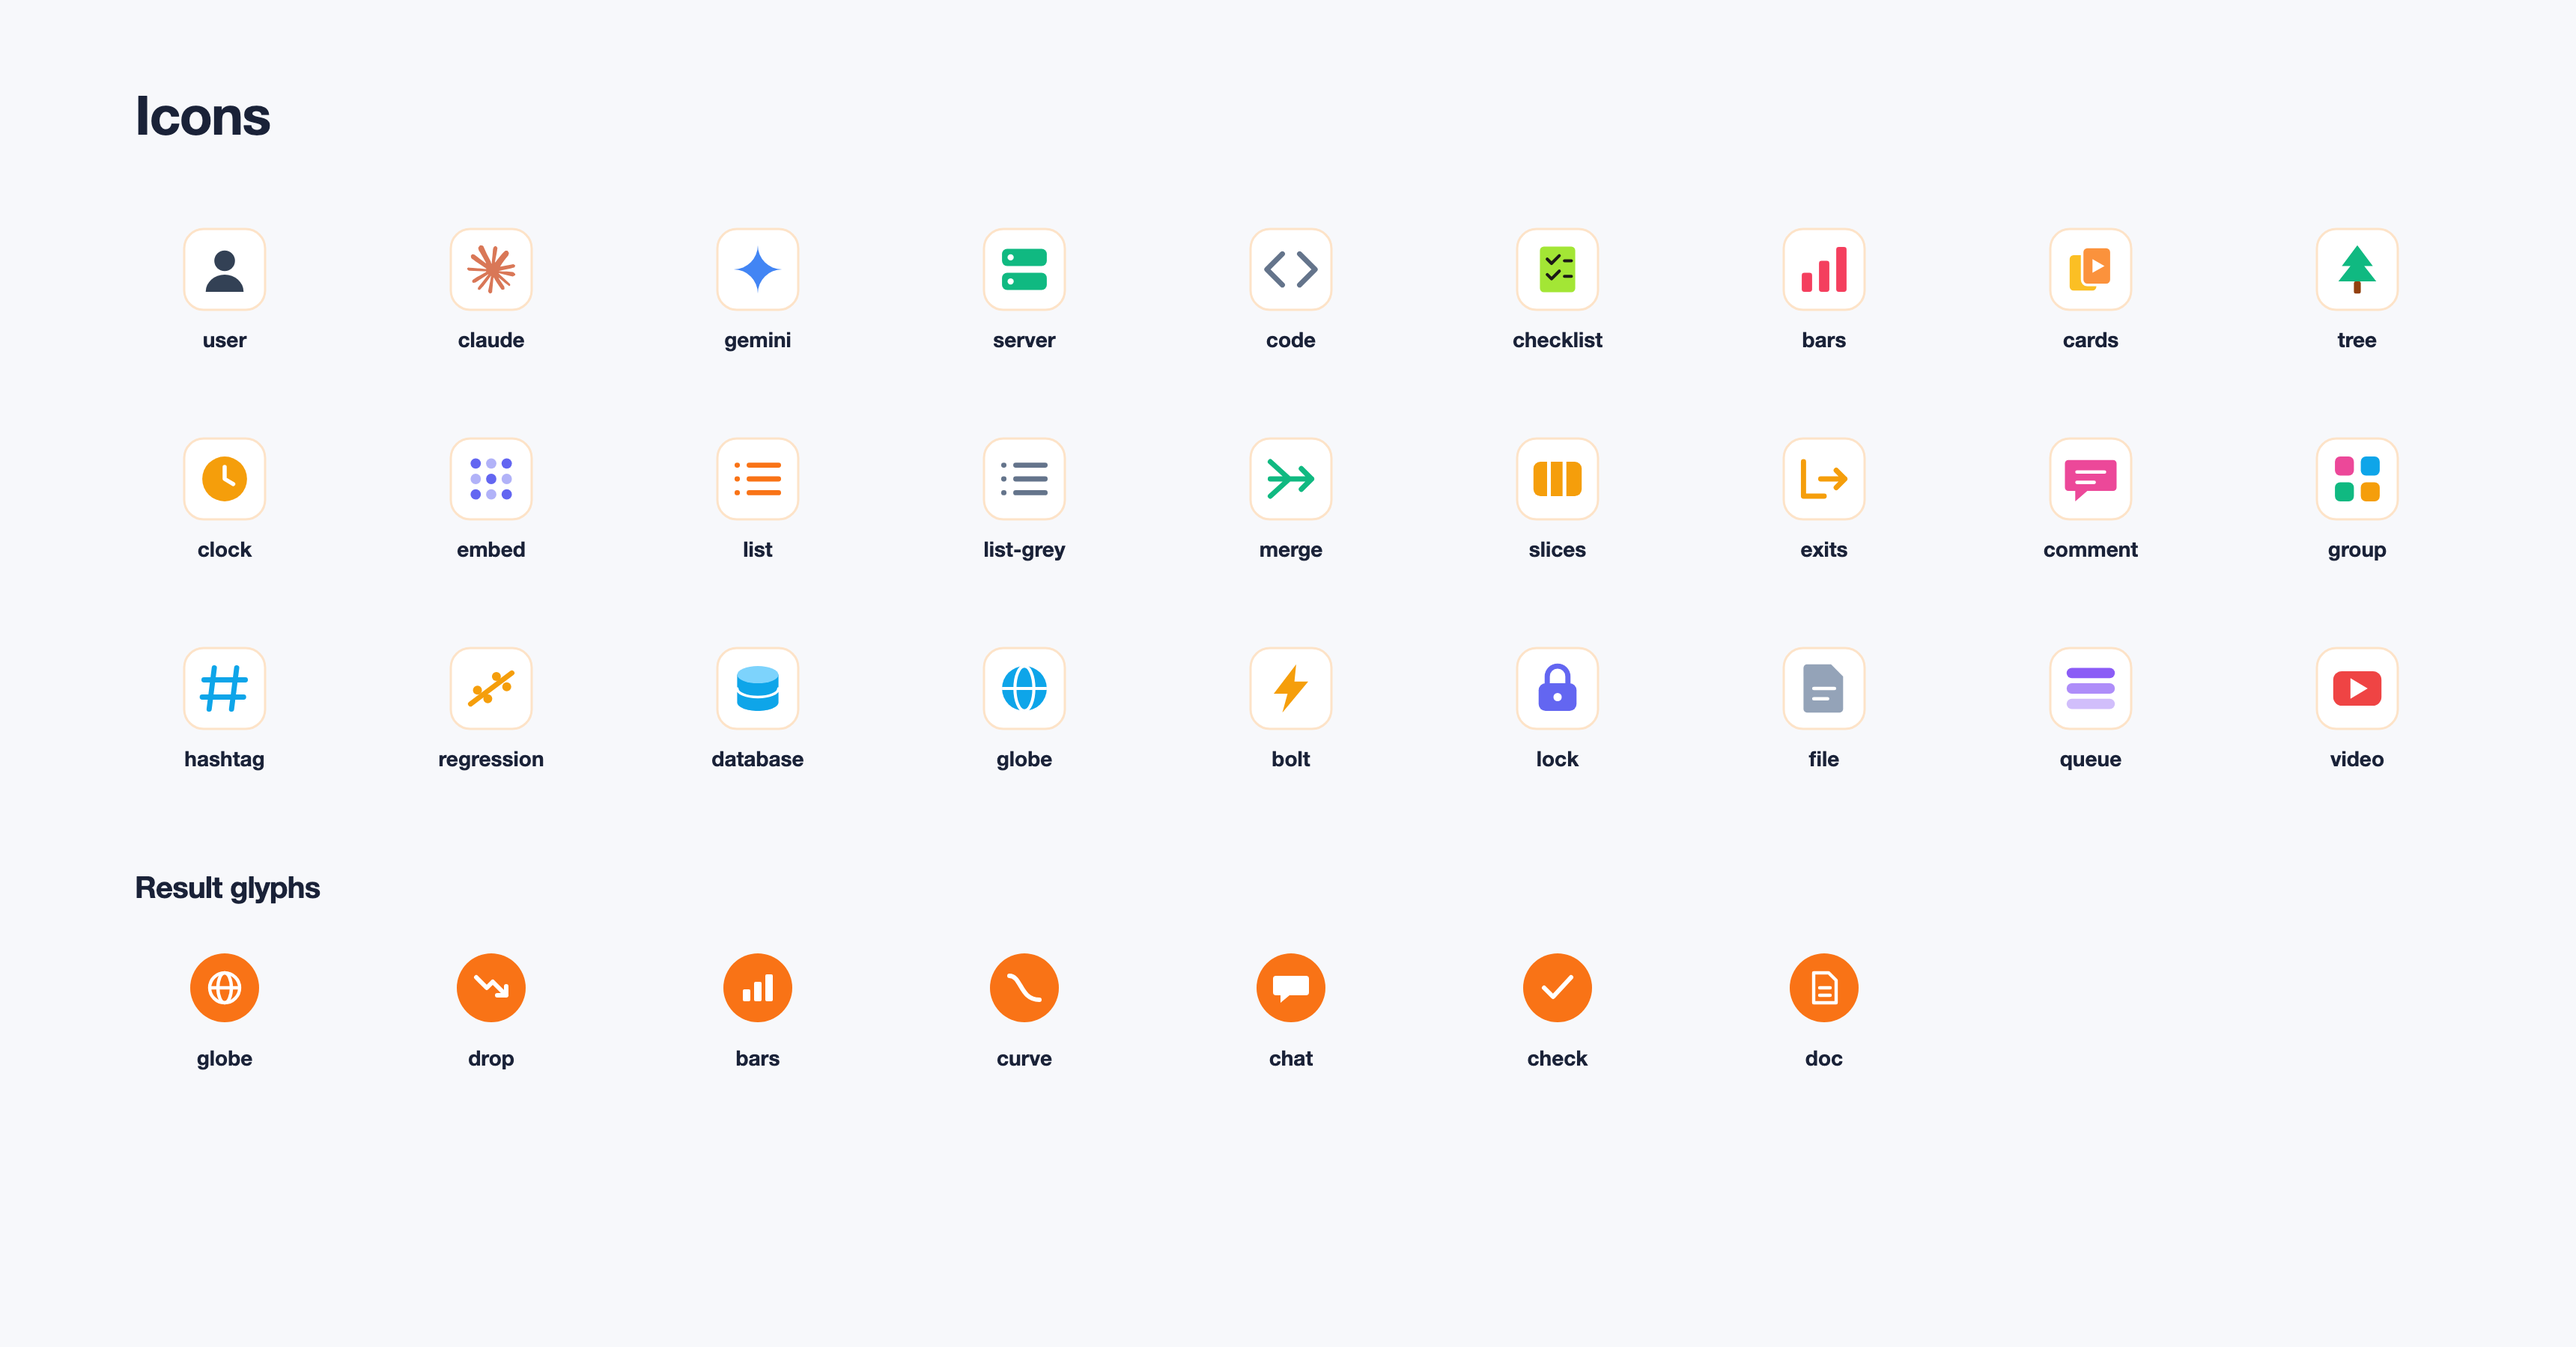
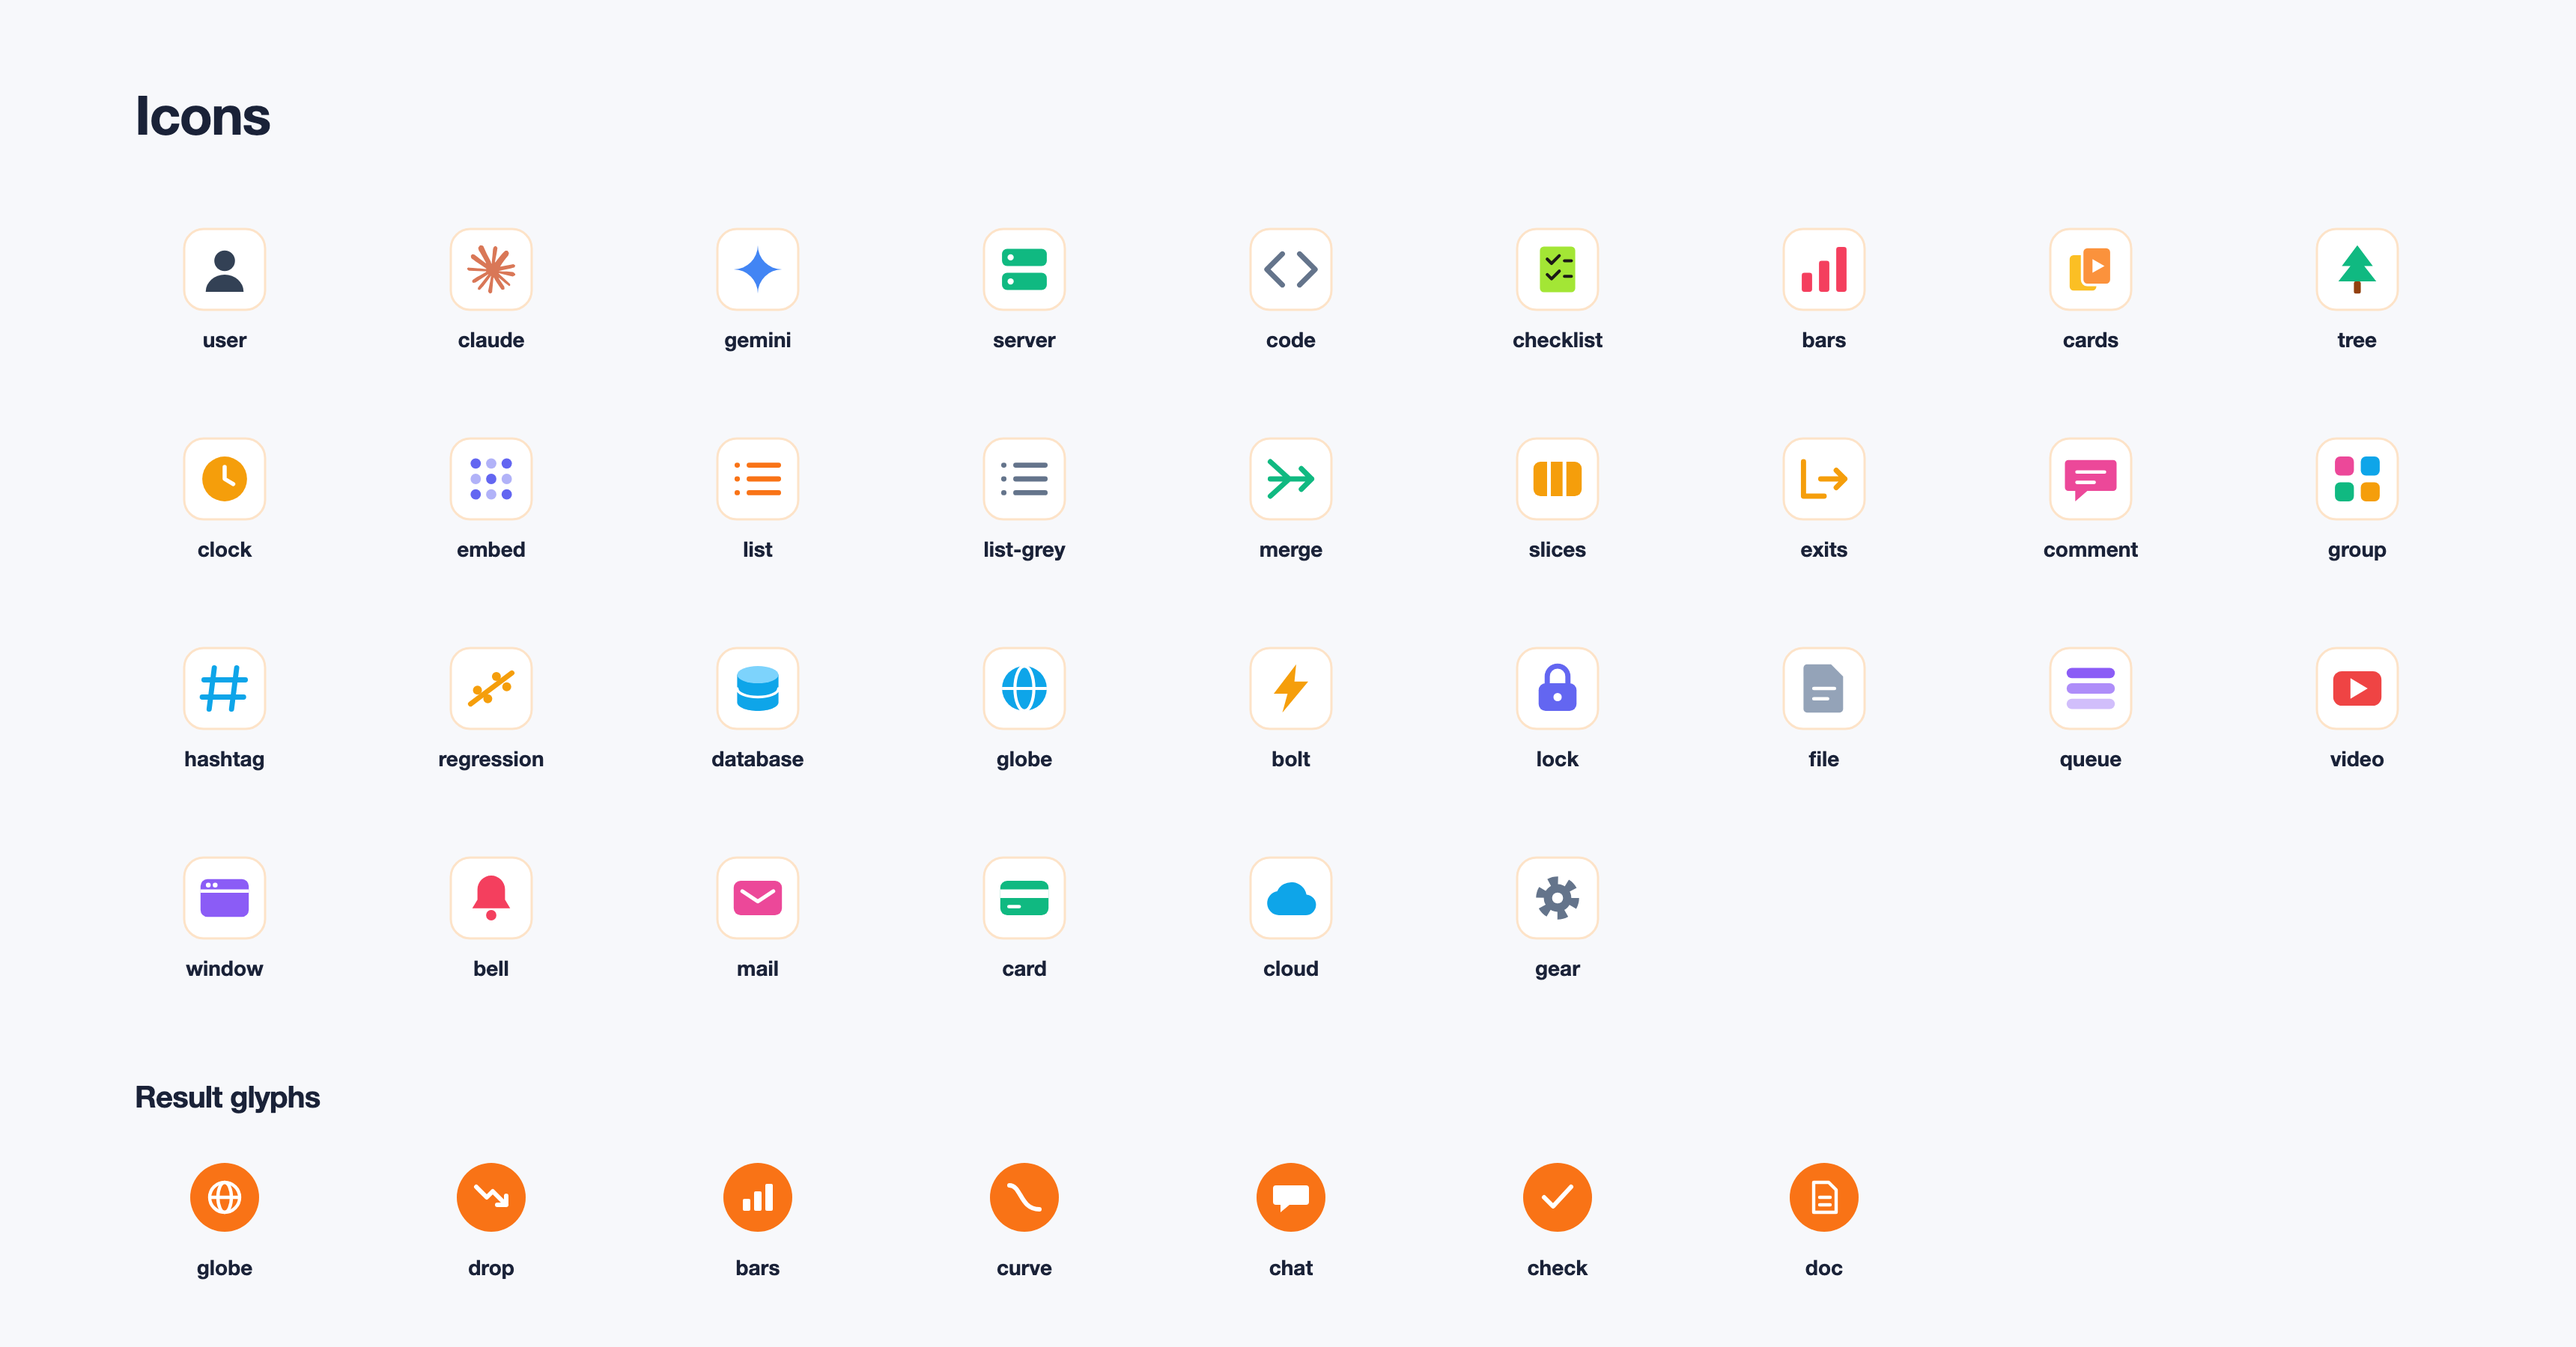
Use a generic web-app example as the README thumbnail
The README showed one specific project's diagram. The new example is a system anyone recognises, and the general-purpose icons it needs (window, bell, mail, card, cloud, gear) join the library. Also documents linking the skill globally so it works in any repo.

Generated with [Devin](https://devin.ai)

diff --git a/examples/web-app/diagram.js b/examples/web-app/diagram.js
@@ -1,0 +1,39 @@
+/* A generic web application: request in, data stored, background work done, user notified. */
+const DIAGRAM={
+ title:'Example web app',
+ nodes:{
+  user: {label:'User',         icon:'user',     x:317,  y:294},
+  web:  {label:'Web app',      icon:'window',   x:672,  y:294},
+  api:  {label:'API',          icon:'server',   x:1027, y:294},
+  db:   {label:'Database',     icon:'database', x:1382, y:259},
+  cache:{label:'Cache',        icon:'bolt',     x:1382, y:349},
+  note: {label:'Notification', icon:'bell',     x:317,  y:575},
+ },
+ groups:{
+  store:{label:'storage',           x:1207, y:182, w:350, h:224},
+  jobs: {label:'background jobs',   x:675,  y:510, w:350, h:130, tiles:['queue','gear','clock','file']},
+  ext:  {label:'external services', x:1207, y:510, w:350, h:130, tiles:['mail','card','cloud','lock']},
+ },
+ edges:{
+  request:'M472 294H517',
+  call:   'M827 294H872',
+  data:   'M1182 294H1207',
+  enqueue:'M950 331V510',
+  send:   'M1025 575H1207',
+  notify: 'M1382 640V695H317V612',
+  seen:   'M317 538V331',
+ },
+ steps:[
+  {at:['user']}, {along:['request'],dur:.9}, {at:['web']}, {along:['call'],dur:.9}, {at:['api']},
+  {along:['data'],dur:.9}, {at:['store','db','cache']},
+  {along:['enqueue'],dur:1}, {at:['jobs']}, {open:'jobs'},
+  {along:['send'],dur:.7}, {at:['ext']},
+  {along:['notify'],dur:2}, {at:['note']}, {along:['seen'],dur:1}, {at:['user']},
+ ],
+ details:{
+  jobs:{title:'background jobs', input:{label:'Job request',icon:'list'}, rows:[
+   {steps:[{label:'Queue',icon:'queue'},{label:'Worker',icon:'gear'},{label:'Render document',icon:'file'}], result:'receipts · reports · exports', glyph:'doc'},
+   {steps:[{label:'Schedule',icon:'clock'},{label:'Worker',icon:'gear'}], result:'nightly cleanup · backups', glyph:'check'},
+  ]},
+ },
+};

diff --git a/src/icons.js b/src/icons.js
@@ -32,6 +32,12 @@ const ICONS={
  file:'<path d="M-10-14H4l7 7v19a2 2 0 0 1-2 2H-10a2 2 0 0 1-2-2v-24a2 2 0 0 1 2-2z" fill="#94a3b8"/>'+st('#fff','M-6 0h12M-6 6h8',2),
  queue:'<rect x="-14" y="-12" width="28" height="6" rx="3" fill="#8b5cf6"/><rect x="-14" y="-3" width="28" height="6" rx="3" fill="#8b5cf6" opacity=".7"/><rect x="-14" y="6" width="28" height="6" rx="3" fill="#8b5cf6" opacity=".4"/>',
  video:'<rect x="-14" y="-10" width="28" height="20" rx="5" fill="#ef4444"/><path d="M-4-6v12l10-6z" fill="#fff"/>',
+ window:'<rect x="-14" y="-11" width="28" height="22" rx="4" fill="#8b5cf6"/><path d="M-14-4H14" stroke="#fff" stroke-width="2"/><circle cx="-9.5" cy="-7.5" r="1.4" fill="#fff"/><circle cx="-5.5" cy="-7.5" r="1.4" fill="#fff"/>',
+ bell:'<path d="M0-13a8 8 0 0 0-8 8v6l-3 5h22l-3-5v-6a8 8 0 0 0-8-8z" fill="#f43f5e"/><circle cy="10" r="3" fill="#f43f5e"/>',
+ mail:'<rect x="-14" y="-10" width="28" height="20" rx="4" fill="#ec4899"/>'+st('#fff','M-9-4l9 6 9-6',2.2),
+ card:'<rect x="-14" y="-10" width="28" height="20" rx="4" fill="#10b981"/><rect x="-14" y="-5" width="28" height="5" fill="#fff"/>'+st('#fff','M-9 5h6',2),
+ cloud:'<path d="M-7 10a7 7 0 0 1-1-13.9A9 9 0 0 1 9-2a6 6 0 0 1-1 12z" fill="#0ea5e9"/>',
+ gear:'<circle r="9" fill="none" stroke="#64748b" stroke-width="7" stroke-dasharray="4.71 4.71"/><circle r="8" fill="#64748b"/><circle r="3.2" fill="#fff"/>',
 };
 /* White glyphs for the accent circle on result pills. */
 const GLYPHS={

diff --git a/README.md b/README.md
@@ -3,7 +3,11 @@
 A small kit for making clean, interactive architecture diagrams. You describe a system in one spec
 file; the kit builds a single self-contained HTML page (no server, no dependencies) and can export PNGs.
 
-![Overview](examples/shorts-copilot/overview.png)
+![A diagram mid-flow: the accent line traces the request through the system](examples/web-app/flow.png)
+
+Sub-systems open their own page:
+
+![Detail page](examples/web-app/detail.png)
 
 It is also an agent skill: `SKILL.md` tells Claude, Devin or similar how to use the kit.
 
@@ -20,7 +24,7 @@ bin/export-png.sh ~/my-project/docs/architecture.diagram.html       # 4. optiona
 
 Open the HTML in a browser. Right arrow / Space steps forward, Left steps back, Esc leaves a detail page.
 
-To see it working first: `bin/build.py examples/shorts-copilot/diagram.js -o /tmp/demo.html && open /tmp/demo.html`
+To see it working first: `bin/build.py examples/web-app/diagram.js -o /tmp/demo.html && open /tmp/demo.html`
 
 ## How it is organised
 
@@ -41,7 +45,9 @@ Each file has one job. A diagram is `spec + theme + styles + icons + engine`, jo
 | `docs/spec.md` | Reference for the spec format | |
 | `docs/design.md` | The look: principles, layout rules, checklist | |
 | `docs/icons.md` | How to draw and add an icon | |
-| `examples/` | A full example spec and reference PNGs | |
+| `examples/web-app/` | Generic example spec and the reference PNGs | |
+| `examples/shorts-copilot/` | A real project's diagram, with three-row detail pages | |
+| `examples/icons.png` | Every icon with its name | |
 | `SKILL.md` | Workflow for AI agents | |
 
 ## Changing things
@@ -60,18 +66,22 @@ Each file has one job. A diagram is `spec + theme + styles + icons + engine`, jo
 After changing anything in `src/` or `themes/`, rebuild the example and look at it to check nothing broke:
 
 ```bash
-bin/build.py examples/shorts-copilot/diagram.js -o /tmp/demo.html
-bin/export-png.sh /tmp/demo.html /tmp/demo.png "step=7&u=0.5"
-bin/export-png.sh /tmp/demo.html /tmp/demo-detail.png "view=rp&dstep=end"
+bin/build.py examples/web-app/diagram.js -o /tmp/demo.html
+bin/export-png.sh /tmp/demo.html /tmp/demo.png "step=12&u=0.55"
+bin/export-png.sh /tmp/demo.html /tmp/demo-detail.png "view=jobs&dstep=end"
 ```
 
 ## Using it as an agent skill
 
-Link the folder into the tool's skills directory, for example:
+Link the folder into your tools' global skills directories, and the skill is available in every repo:
 
 ```bash
-ln -s "$(pwd)" ~/.claude/skills/architecture-diagram-creator
+ln -s "$(pwd)" ~/.claude/skills/architecture-diagram-creator    # Claude Code
+ln -s "$(pwd)" ~/.agents/skills/architecture-diagram-creator    # Devin, Codex and others
 ```
+
+Then ask for "an architecture diagram of this project" in any repo. The agent keeps the spec and the
+built HTML in that repo; the kit itself stays here and is never copied.
 
 ## Note on logos
 

diff --git a/SKILL.md b/SKILL.md
@@ -20,10 +20,10 @@ You write one small spec file describing the system. The kit turns it into an in
 1. **Understand the system.** Read the project's README and entry points. Write the request flow as a
    numbered story ("user uploads a draft, the API calls the model, ..."). More than about 10 beats means
    too much detail for the overview: move it into a detail page.
-2. **Read the look.** Open `<kit>/examples/shorts-copilot/overview.png` and `detail.png`, then
+2. **Read the look.** Open `<kit>/examples/web-app/flow.png` and `detail.png`, then
    `<kit>/docs/design.md`. Match that feel.
 3. **Write the spec.** Copy `<kit>/starter/diagram.js` into the project (e.g. `docs/architecture.diagram.js`)
-   and fill it in following `<kit>/docs/spec.md`. `<kit>/examples/shorts-copilot/diagram.js` is a full example.
+   and fill it in following `<kit>/docs/spec.md`. `<kit>/examples/web-app/diagram.js` is a full example.
    Icon names: `<kit>/examples/icons.png`. Need one that is missing? `<kit>/docs/icons.md`.
 4. **Build.** `python3 <kit>/bin/build.py docs/architecture.diagram.js -o docs/architecture.html`
 5. **Look at it and fix it.** Export PNGs and read them: the finished flow, one mid-flow step, and every detail page.

diff --git a/docs/design.md b/docs/design.md
@@ -3,7 +3,7 @@
 What the diagrams should look and feel like. Exact colour values are in `themes/default.css` and
 component styling in `src/diagram.css`; this guide explains the intent behind them.
 
-Reference images: `examples/shorts-copilot/overview.png` and `detail.png`.
+Reference images: `examples/web-app/flow.png` (mid-flow), `overview.png` (finished) and `detail.png`.
 
 ## The feel
 
